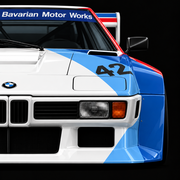
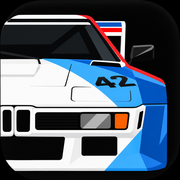
GRIP 0.52.23.2
- Nouvelle icône : la M1 dessinée en aplats, dans l'onglet du navigateur et sur l'écran d'accueil du téléphone.

Claude-Session: https://claude.ai/code/session_01WCku2F6Jz7QYnAByeRTzna

diff --git a/index.html b/index.html
@@ -9,49 +9,49 @@
   <meta name="mobile-web-app-capable" content="yes">
   <meta name="theme-color" content="#0f1117">
   <title>GRIP — Racing the Line</title>
-  <link rel="icon" type="image/png" sizes="32x32" href="art/icone-32.png?v=0.52.23.1">
-  <link rel="icon" type="image/png" sizes="16x16" href="art/icone-16.png?v=0.52.23.1">
-  <link rel="icon" type="image/png" sizes="48x48" href="art/icone-48.png?v=0.52.23.1">
-  <link rel="icon" type="image/x-icon" href="favicon.ico?v=0.52.23.1">
-  <link rel="apple-touch-icon" href="art/icone-180.png?v=0.52.23.1">
-  <link rel="manifest" href="site.webmanifest?v=0.52.23.1">
-  <link rel="stylesheet" href="css/style.css?v=0.52.23.1">
+  <link rel="icon" type="image/png" sizes="32x32" href="art/icone-32.png?v=0.52.23.2">
+  <link rel="icon" type="image/png" sizes="16x16" href="art/icone-16.png?v=0.52.23.2">
+  <link rel="icon" type="image/png" sizes="48x48" href="art/icone-48.png?v=0.52.23.2">
+  <link rel="icon" type="image/x-icon" href="favicon.ico?v=0.52.23.2">
+  <link rel="apple-touch-icon" href="art/icone-180.png?v=0.52.23.2">
+  <link rel="manifest" href="site.webmanifest?v=0.52.23.2">
+  <link rel="stylesheet" href="css/style.css?v=0.52.23.2">
 </head>
 <body>
   <canvas id="game"></canvas>
   <div id="ui" class="hidden"></div>
 
-  <script src="js/version.js?v=0.52.23.1"></script>
-  <script src="js/maj.js?v=0.52.23.1"></script>
-  <script src="js/util.js?v=0.52.23.1"></script>
-  <script src="js/controls.js?v=0.52.23.1"></script>
-  <script src="js/traces.js?v=0.52.23.1"></script>
-  <script src="js/tracks.js?v=0.52.23.1"></script>
-  <script src="js/track.js?v=0.52.23.1"></script>
-  <script src="js/cars.js?v=0.52.23.1"></script>
-  <script src="js/carart.js?v=0.52.23.1"></script>
-  <script src="js/car.js?v=0.52.23.1"></script>
-  <script src="js/flags.js?v=0.52.23.1"></script>
-  <script src="js/race.js?v=0.52.23.1"></script>
-  <script src="js/career.js?v=0.52.23.1"></script>
-  <script src="js/store.js?v=0.52.23.1"></script>
-  <script src="js/props.js?v=0.52.23.1"></script>
-  <script src="js/room-rtc.js?v=0.52.23.1"></script>
-  <script src="js/paquet.js?v=0.52.23.1"></script>
-  <script src="js/spectator.js?v=0.52.23.1"></script>
-  <script src="js/net-drive.js?v=0.52.23.1"></script>
-  <script src="js/net.js?v=0.52.23.1"></script>
-  <script src="js/mondial.js?v=0.52.23.1"></script>
-  <script src="js/analytics.js?v=0.52.23.1"></script>
-  <script src="js/circuit-graphics.js?v=0.52.23.1"></script>
-<script src="js/render.js?v=0.52.23.1"></script>
-  <script src="js/engine-audio.js?v=0.52.23.1"></script>
-  <script src="js/audio.js?v=0.52.23.1"></script>
-  <script src="js/ui.js?v=0.52.23.1"></script>
-  <script src="js/gamepad-ui.js?v=0.52.23.1"></script>
-  <script src="js/main.js?v=0.52.23.1"></script>
-  <script src="js/static-backdrop.js?v=0.52.23.1"></script>
-  <script src="js/chromium-cache-fix.js?v=0.52.23.1"></script>
-  <script src="js/chromium-cache.js?v=0.52.23.1"></script>
+  <script src="js/version.js?v=0.52.23.2"></script>
+  <script src="js/maj.js?v=0.52.23.2"></script>
+  <script src="js/util.js?v=0.52.23.2"></script>
+  <script src="js/controls.js?v=0.52.23.2"></script>
+  <script src="js/traces.js?v=0.52.23.2"></script>
+  <script src="js/tracks.js?v=0.52.23.2"></script>
+  <script src="js/track.js?v=0.52.23.2"></script>
+  <script src="js/cars.js?v=0.52.23.2"></script>
+  <script src="js/carart.js?v=0.52.23.2"></script>
+  <script src="js/car.js?v=0.52.23.2"></script>
+  <script src="js/flags.js?v=0.52.23.2"></script>
+  <script src="js/race.js?v=0.52.23.2"></script>
+  <script src="js/career.js?v=0.52.23.2"></script>
+  <script src="js/store.js?v=0.52.23.2"></script>
+  <script src="js/props.js?v=0.52.23.2"></script>
+  <script src="js/room-rtc.js?v=0.52.23.2"></script>
+  <script src="js/paquet.js?v=0.52.23.2"></script>
+  <script src="js/spectator.js?v=0.52.23.2"></script>
+  <script src="js/net-drive.js?v=0.52.23.2"></script>
+  <script src="js/net.js?v=0.52.23.2"></script>
+  <script src="js/mondial.js?v=0.52.23.2"></script>
+  <script src="js/analytics.js?v=0.52.23.2"></script>
+  <script src="js/circuit-graphics.js?v=0.52.23.2"></script>
+<script src="js/render.js?v=0.52.23.2"></script>
+  <script src="js/engine-audio.js?v=0.52.23.2"></script>
+  <script src="js/audio.js?v=0.52.23.2"></script>
+  <script src="js/ui.js?v=0.52.23.2"></script>
+  <script src="js/gamepad-ui.js?v=0.52.23.2"></script>
+  <script src="js/main.js?v=0.52.23.2"></script>
+  <script src="js/static-backdrop.js?v=0.52.23.2"></script>
+  <script src="js/chromium-cache-fix.js?v=0.52.23.2"></script>
+  <script src="js/chromium-cache.js?v=0.52.23.2"></script>
 </body>
 </html>

diff --git a/analytics.html b/analytics.html
@@ -6,8 +6,8 @@
   <meta name="robots" content="noindex,nofollow">
   <meta name="referrer" content="same-origin">
   <title>Statistiques · GRIP</title>
-  <link rel="icon" href="art/icone-32.png?v=0.52.23.1">
-  <link rel="stylesheet" href="css/analytics.css?v=0.52.23.1">
+  <link rel="icon" href="art/icone-32.png?v=0.52.23.2">
+  <link rel="stylesheet" href="css/analytics.css?v=0.52.23.2">
 </head>
 <body>
   <header><a class="brand" href="index.html">GRIP <span> / ANALYTICS</span></a>
@@ -45,9 +45,9 @@
         <p><span data-i18n="charts">Graphiques :</span> <a href="https://github.com/apache/echarts">Apache ECharts 6.0.0</a> · <a href="vendor/echarts/LICENSE">Apache 2.0</a>. <a href="docs/analytics/README.md" data-i18n="install">Installation et définitions</a>.</p></footer>
     </div>
   </main>
-  <script src="js/version.js?v=0.52.23.1"></script><script src="js/util.js?v=0.52.23.1"></script>
-  <script src="js/traces.js?v=0.52.23.1"></script><script src="js/tracks.js?v=0.52.23.1"></script><script src="js/cars.js?v=0.52.23.1"></script>
-  <script src="js/mondial.js?v=0.52.23.1"></script><script src="vendor/echarts/echarts.min.js?v=0.52.23.1"></script>
-  <script src="js/analytics-dashboard.js?v=0.52.23.1"></script>
+  <script src="js/version.js?v=0.52.23.2"></script><script src="js/util.js?v=0.52.23.2"></script>
+  <script src="js/traces.js?v=0.52.23.2"></script><script src="js/tracks.js?v=0.52.23.2"></script><script src="js/cars.js?v=0.52.23.2"></script>
+  <script src="js/mondial.js?v=0.52.23.2"></script><script src="vendor/echarts/echarts.min.js?v=0.52.23.2"></script>
+  <script src="js/analytics-dashboard.js?v=0.52.23.2"></script>
 </body>
 </html>

diff --git a/js/version.js b/js/version.js
@@ -1,1 +1,1 @@
-"use strict";const APP_VERSION="0.52.23.1",APP_DATE="2026-10-29",APP_CANAL="prod";
+"use strict";const APP_VERSION="0.52.23.2",APP_DATE="2026-10-29",APP_CANAL="prod";
